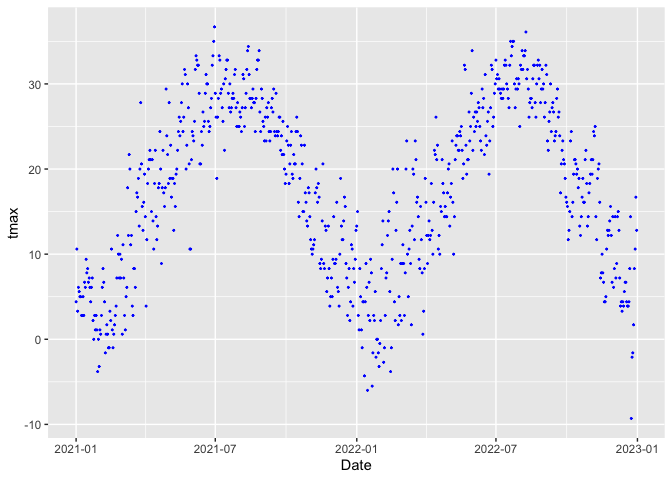
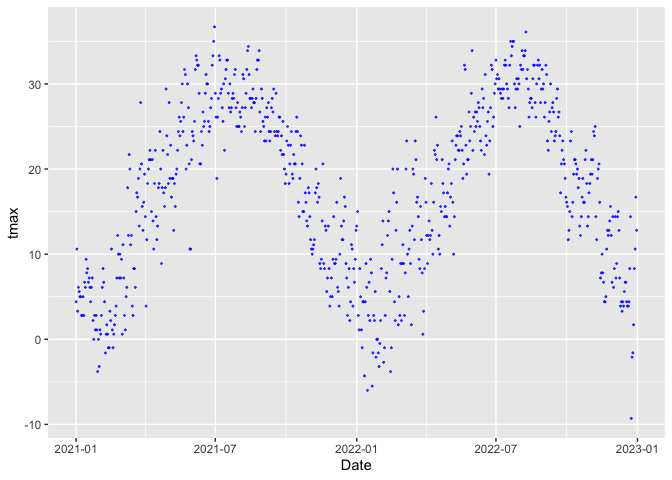
diff plots

diff --git a/visualization_part_1.md b/visualization_part_1.md
@@ -115,6 +115,8 @@ the plot + name it
 
 ## Fancy plot
 
+### colors, alpha blending, no SE
+
 ``` r
 ggplot(weather_df, aes(x = tmin, y = tmax, color = name)) + 
   geom_point() +
@@ -172,7 +174,7 @@ ggplot(weather_df, aes(x = tmin, y = tmax)) +
   - **`se = FALSE`**: get rid of the standard error bars around the
     smooth line.
 
-## Plot with facets
+### Plot with facets
 
 if i think there are still too much stuff happen in one panel:
 
@@ -237,7 +239,7 @@ weather_df |>
   filter(name == 'CentralPark_NY') |> 
   rename(Date = date) |> 
   ggplot(aes(x = Date, y = tmax)) +
-  geom_point(color = 'blue', size = .3)
+  geom_point(color = 'blue', size = .3, alpha = .7)
 ```
 
 ![](visualization_part_1_files/figure-gfm/unnamed-chunk-9-1.png)<!-- -->
@@ -250,3 +252,127 @@ ds and then it color the points using default ggplot color.) \*
 `size = .3` can be used to manually adjust point size. \* use `rename`,
 we can relable the variable. but we have easy way to do this in next
 class.
+
+### hex plot w `geom_hex`
+
+``` r
+weather_df |> 
+  ggplot(aes(x = tmin, y = tmax)) +
+  geom_hex()
+```
+
+    ## Warning: Removed 17 rows containing non-finite values (`stat_binhex()`).
+
+![](visualization_part_1_files/figure-gfm/unnamed-chunk-10-1.png)<!-- -->
+\* if we have ds much larger ds, we can use **`geom_hex`** to get
+something like a density plot. this is like a heat map. eg. if we have
+100,000 data, putting all individual points on a plot will be a wreck.
+But use geom_hex, we can see where the data exists.
+
+### line plots
+
+``` r
+weather_df |> 
+  filter(name == "Molokai_HI") |> 
+  ggplot(aes(x = date, y = tmax)) +
+  geom_line()
+```
+
+![](visualization_part_1_files/figure-gfm/unnamed-chunk-11-1.png)<!-- -->
+\* doing like connect the dots, in the order of data in our ds. \* we
+can use geom_point and geom_line together.
+
+## univariate plotting
+
+Sometime we just want to understand/look 1 variable at 1 time.
+
+### start w histogram w `geom_histogram()`
+
+``` r
+ggplot(weather_df, aes(x = tmax, color = name)) +
+  geom_histogram()
+```
+
+    ## `stat_bin()` using `bins = 30`. Pick better value with `binwidth`.
+
+    ## Warning: Removed 17 rows containing non-finite values (`stat_bin()`).
+
+![](visualization_part_1_files/figure-gfm/unnamed-chunk-12-1.png)<!-- -->
+
+``` r
+ggplot(weather_df, aes(x = tmax, fill = name)) +
+  geom_histogram(position = 'dodge', binwidth = 2)
+```
+
+    ## Warning: Removed 17 rows containing non-finite values (`stat_bin()`).
+
+![](visualization_part_1_files/figure-gfm/unnamed-chunk-12-2.png)<!-- -->
+\* if want the color to fill in the histogram, switch `color = name` to
+`fill = name` \* **`binwidth`**: define the width of the bin. \* in 1st,
+histogram stacks up each other. to avoid this, use
+**`position = 'dodge`** inside geom_histogram (2nd). \* but this is not
+easy to understand the distribution just use histogram. so next step:
+
+### let’s use a density plot w `geom_density()`
+
+``` r
+ggplot(weather_df, aes(x = tmax, fill = name)) +
+  geom_density(alpha = 0.3, adjust = 0.5)
+```
+
+    ## Warning: Removed 17 rows containing non-finite values (`stat_density()`).
+
+![](visualization_part_1_files/figure-gfm/unnamed-chunk-13-1.png)<!-- -->
+\* `adjust =` is used to adjust the smoothness. The default is good, but
+double check w this can be helpful sometimes.
+
+### using boxplot w `geom_boxplot()`
+
+``` r
+ggplot(weather_df, aes(y = tmax, x = name)) +
+  geom_boxplot()
+```
+
+    ## Warning: Removed 17 rows containing non-finite values (`stat_boxplot()`).
+
+![](visualization_part_1_files/figure-gfm/unnamed-chunk-14-1.png)<!-- -->
+
+### violin plot w `geom_violin()`
+
+``` r
+ggplot(weather_df, aes(y = tmax, x = name)) +
+  geom_violin() +
+  stat_summary(fun = 'median', color = 'blue')
+```
+
+    ## Warning: Removed 17 rows containing non-finite values (`stat_ydensity()`).
+
+    ## Warning: Removed 17 rows containing non-finite values (`stat_summary()`).
+
+    ## Warning: Removed 3 rows containing missing values (`geom_segment()`).
+
+![](visualization_part_1_files/figure-gfm/unnamed-chunk-15-1.png)<!-- -->
+\* like mirroring the density plots. provide w same info. \* but if we
+get variable w lots of categories, eg. 50 names here, then difficult to
+understand w density plot, and now violin plot might be useful as it
+separate each cate of this variable. \*
+`stat_summary(fun = 'median', color = 'blue')`: create a dot stands for
+median for each violin polt, and color the dots with blue
+
+### ridge plot w `geom_density_ridges()`
+
+``` r
+ggplot(weather_df, aes(x = tmax, y = name)) +
+  geom_density_ridges()
+```
+
+    ## Picking joint bandwidth of 1.54
+
+    ## Warning: Removed 17 rows containing non-finite values
+    ## (`stat_density_ridges()`).
+
+![](visualization_part_1_files/figure-gfm/unnamed-chunk-16-1.png)<!-- -->
+\* create separate densities, but will stack on top of each other
+vertically rather than all overlapping. useful when we have lots of cate
+in a variable - easy way to understand the density of dist of a var
+across lots of diff cates.
